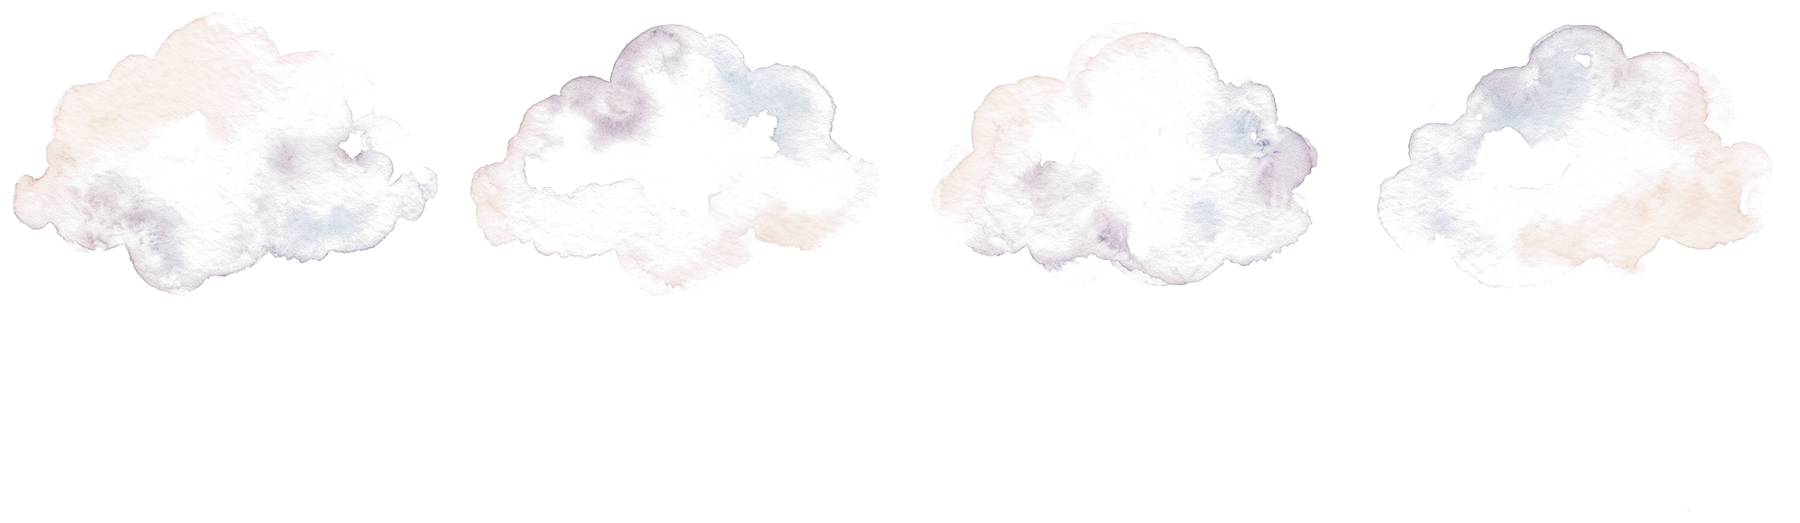
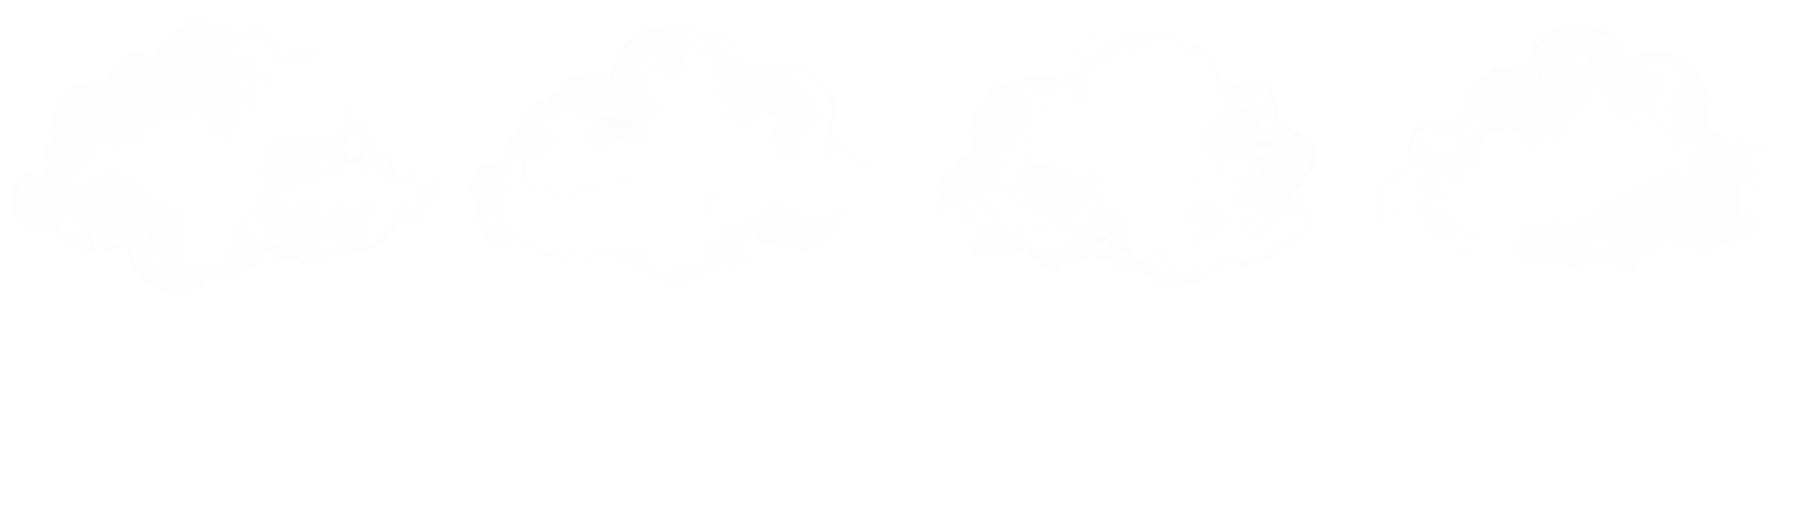
Sweet Pea opening: seal cracks and spins off, band slides away, flaps open at once with a gentle push-in, flowers pop up after the flaps, bigger butterflies, names and flowers fly into the page (no double image), airier clouds

diff --git a/app/i/[slug]/_designs/WeddingSweetPea.tsx b/app/i/[slug]/_designs/WeddingSweetPea.tsx
@@ -14,6 +14,7 @@
 // peach blush, butter cream, sage, plum ink.
 
 import { useCallback, useEffect, useMemo, useRef, useState, type CSSProperties, type ReactNode } from "react";
+import { flushSync } from "react-dom";
 import type { Invite } from "@/lib/types";
 import type { InviteGuest } from "@/lib/guestRules";
 import { parseWallClock } from "@/lib/calendar";
@@ -70,8 +71,73 @@ type GateStage = "closed" | "seal" | "open" | "grow" | "done";
 function FoldGate({ names, dateLine, onDone, onGone }: { names: string; dateLine: string; onDone: () => void; onGone: () => void }) {
   const [stage, setStage] = useState<GateStage>("closed");
   const timers = useRef<number[]>([]);
-  useEffect(() => () => timers.current.forEach(clearTimeout), []);
+  const gateRef = useRef<HTMLDivElement | null>(null);
+  const sprayRatio = useRef(1400 / 784);
+  useEffect(() => {
+    const img = new Image();
+    img.onload = () => (sprayRatio.current = img.naturalWidth / img.naturalHeight);
+    img.src = `${ART}/spray.webp`;
+    const t = timers.current;
+    return () => t.forEach(clearTimeout);
+  }, []);
   const [a, b] = splitNames(names);
+
+  // Hand-over: the card's names, line and flowers fly to the exact spot (and
+  // size) of the page's own names, line and flowers, so the guest sees one
+  // set of names travel into place, never two overlapping. Text clones animate
+  // their font size (stays crisp); the flowers animate their painted rect.
+  function morph() {
+    const gate = gateRef.current;
+    if (!gate) return;
+    const T = "1s cubic-bezier(.45,0,.2,1)";
+    const textPairs: [string, string][] = [
+      [".sp-inside-names", ".sp-hero .sp-names"],
+      [".sp-inside-text .sp-eyebrow", ".sp-hero > .sp-eyebrow"],
+    ];
+    for (const [from, to] of textPairs) {
+      const src = gate.querySelector<HTMLElement>(from);
+      const dst = document.querySelector<HTMLElement>(to);
+      if (!src || !dst) continue;
+      const r1 = src.getBoundingClientRect(), r2 = dst.getBoundingClientRect();
+      const cs1 = getComputedStyle(src), cs2 = getComputedStyle(dst);
+      const k = src.offsetWidth ? r1.width / src.offsetWidth : 1;
+      const fs1 = parseFloat(cs1.fontSize) * k, fs2 = parseFloat(cs2.fontSize);
+      const c = src.cloneNode(true) as HTMLElement;
+      Object.assign(c.style, {
+        position: "fixed", left: `${r1.left + r1.width / 2}px`, top: `${r1.top + r1.height / 2}px`, margin: "0", zIndex: "30",
+        transform: "translate(-50%, -50%)", fontFamily: cs1.fontFamily, fontWeight: cs1.fontWeight, fontSize: `${fs1}px`,
+        lineHeight: String(parseFloat(cs2.lineHeight) / fs2 || 1), letterSpacing: `${(parseFloat(cs1.letterSpacing) || 0) / parseFloat(cs1.fontSize)}em`,
+        color: cs1.color, whiteSpace: "nowrap", pointerEvents: "none", transition: `left ${T}, top ${T}, font-size ${T}, color ${T}`,
+      });
+      c.dataset.morph = "1";
+      gate.appendChild(c);
+      src.style.visibility = "hidden";
+      void c.offsetWidth;
+      Object.assign(c.style, { left: `${r2.left + r2.width / 2}px`, top: `${r2.top + r2.height / 2}px`, fontSize: `${fs2}px`, color: cs2.color });
+    }
+    const pop = gate.querySelector<HTMLElement>(".sp-pop-front");
+    const hero = document.querySelector<HTMLElement>(".sp-hero-spray");
+    if (pop && hero) {
+      const contain = (r: DOMRect) => {
+        const q = sprayRatio.current;
+        const w = r.width / r.height > q ? r.height * q : r.width;
+        const h = w / q;
+        return { left: r.left + (r.width - w) / 2, top: r.top + (r.height - h) / 2, width: w, height: h };
+      };
+      const r1 = contain(pop.getBoundingClientRect()), r2 = contain(hero.getBoundingClientRect());
+      const c = document.createElement("span");
+      Object.assign(c.style, {
+        position: "fixed", left: `${r1.left}px`, top: `${r1.top}px`, width: `${r1.width}px`, height: `${r1.height}px`, zIndex: "29",
+        background: `url(${ART}/spray.webp) center / 100% 100% no-repeat`, pointerEvents: "none",
+        transition: `left ${T}, top ${T}, width ${T}, height ${T}`,
+      });
+      c.dataset.morph = "1";
+      gate.appendChild(c);
+      pop.style.visibility = "hidden";
+      void c.offsetWidth;
+      Object.assign(c.style, { left: `${r2.left}px`, top: `${r2.top}px`, width: `${r2.width}px`, height: `${r2.height}px` });
+    }
+  }
 
   function open() {
     if (stage !== "closed") return;
@@ -81,15 +147,22 @@ function FoldGate({ names, dateLine, onDone, onGone }: { names: string; dateLine
       timers.current.push(window.setTimeout(onGone, 900));
       return;
     }
+    // seal pops (0) -> flaps open + push in (380) -> flowers rise (~1.2s) ->
+    // butterflies (~1.5s) -> names fly into the page (2.75s) -> page (3.8s)
     setStage("seal");
-    timers.current.push(window.setTimeout(() => setStage("open"), 520));
-    timers.current.push(window.setTimeout(() => setStage("grow"), 3300));
-    timers.current.push(window.setTimeout(onDone, 3750));
-    timers.current.push(window.setTimeout(onGone, 4700));
+    timers.current.push(window.setTimeout(() => setStage("open"), 300));
+    timers.current.push(window.setTimeout(() => { morph(); setStage("grow"); }, 2750));
+    // show the page's names and drop the flying copies in the same paint,
+    // so the semi-transparent watercolor is never drawn twice (darker flash)
+    timers.current.push(window.setTimeout(() => {
+      flushSync(onDone);
+      gateRef.current?.querySelectorAll<HTMLElement>("[data-morph]").forEach((el) => el.remove());
+    }, 3780));
+    timers.current.push(window.setTimeout(onGone, 3900));
   }
 
   return (
-    <div className={`sp-gate st-${stage}`} role="dialog" aria-label="Invitation">
+    <div ref={gateRef} className={`sp-gate st-${stage}`} role="dialog" aria-label="Invitation">
       <div className="sp-gate-sky" aria-hidden="true" />
       <div className="sp-gate-clouds" aria-hidden="true">
         <span className="sp-cloud c1" />
@@ -126,9 +199,9 @@ function FoldGate({ names, dateLine, onDone, onGone }: { names: string; dateLine
         <span className="sp-band" aria-hidden="true" />
         <span className="sp-sprig" style={{ backgroundImage: `url(${ART}/spray.webp)` }} aria-hidden="true" />
         <span className="sp-seal" style={{ backgroundImage: `url(${ART}/seal.webp)` }} />
-        <Butterfly className="sp-out sp-out-1" />
-        <Butterfly className="sp-out sp-out-2" />
       </button>
+      <Butterfly className="sp-out sp-out-1" />
+      <Butterfly className="sp-out sp-out-2" />
       <p className="sp-tap">Tap to open</p>
     </div>
   );
@@ -453,7 +526,7 @@ export default function WeddingSweetPea({ invite, embedded = false, guest = null
   }, [opened]);
 
   return (
-    <div className={`sp-root ${opened ? "is-open" : ""} ${embedded ? "is-embedded" : ""}`} ref={rootRef}>
+    <div className={`sp-root ${opened ? "is-open" : ""} ${embedded ? "is-embedded" : "from-gate"}`} ref={rootRef}>
       <style>{CSS}</style>
       <link rel="preconnect" href="https://fonts.gstatic.com" crossOrigin="" />
       <link rel="stylesheet" href="https://fonts.googleapis.com/css2?family=Gilda+Display&family=Jost:wght@300;400;500&display=swap" precedence="default" />
@@ -576,7 +649,7 @@ body:has(.sp-root) { margin: 0; background: #f1ece3; }
 .sp-sky-clouds { position: absolute; inset: -20% 0; will-change: transform; }
 .sp-sky-clouds.far { transform: translate3d(0, calc(var(--sy, 0) * -0.04px), 0); }
 .sp-sky-clouds.near { transform: translate3d(0, calc(var(--sy, 0) * -0.12px), 0); }
-.sp-cloud { position: absolute; display: block; background: url(${ART}/clouds.webp) no-repeat; background-size: 400% 100%; opacity: .5; filter: brightness(1.25) saturate(.7); }
+.sp-cloud { position: absolute; display: block; background: url(${ART}/clouds.webp) no-repeat; background-size: 400% 100%; opacity: .75; }
 .sp-cloud.c1 { width: 62vw; max-width: 380px; aspect-ratio: 2.5/1; top: 18%; left: -14%; background-position: 0 0; animation: sp-drift 46s ease-in-out infinite alternate; }
 .sp-cloud.c2 { width: 54vw; max-width: 340px; aspect-ratio: 2.5/1; top: 46%; right: -12%; background-position: 33.333% 0; animation: sp-drift 38s ease-in-out -9s infinite alternate-reverse; }
 .sp-cloud.c3 { width: 48vw; max-width: 300px; aspect-ratio: 2.5/1; top: 72%; left: 8%; background-position: 66.666% 0; opacity: .6; animation: sp-drift 52s ease-in-out -20s infinite alternate; }
@@ -596,7 +669,7 @@ body:has(.sp-root) { margin: 0; background: #f1ece3; }
 /* ---------- page ---------- */
 .sp-page { position: relative; z-index: 1; padding: 0 22px 40px; max-width: 520px; margin: 0 auto; text-align: center; }
 .sp-hero { position: relative; min-height: 100svh; display: flex; flex-direction: column; align-items: center; justify-content: center; padding: 120px 0 90px; }
-.sp-hero-spray { position: absolute; top: 3svh; left: 50%; width: min(118vw, 600px); aspect-ratio: 16/9; translate: -50% 0; background: center / contain no-repeat; pointer-events: none; }
+.sp-hero-spray { position: absolute; top: 7svh; left: 50%; width: min(110vw, 560px); aspect-ratio: 16/9; translate: -50% 0; background: center / contain no-repeat; pointer-events: none; }
 .sp-names { font: 400 clamp(58px, 18vw, 86px)/.98 var(--title); margin: 4px 0 18px; display: flex; flex-direction: column; align-items: center; }
 .sp-hero-line { font: 300 15px/1.5 var(--body); letter-spacing: .06em; margin: 0 0 22px; color: var(--ink-soft); }
 .sp-hero-date { font: 400 17px/1 var(--body); letter-spacing: .38em; margin: 0; padding: 14px 0 14px .38em; border-top: 1px solid var(--line); border-bottom: 1px solid var(--line); }
@@ -608,6 +681,8 @@ body:has(.sp-root) { margin: 0; background: #f1ece3; }
 .sp-root:not(.is-open) .sp-hero > * { opacity: 0; }
 .is-open .sp-hero > * { animation: sp-hero-in 1.2s cubic-bezier(.2,.7,.2,1) both; }
 .is-open .sp-hero .sp-eyebrow { animation-delay: .05s; } .is-open .sp-names { animation-delay: .15s; }
+.is-open.from-gate .sp-hero > .sp-eyebrow, .is-open.from-gate .sp-names, .is-open.from-gate .sp-hero-spray { animation: none; }
+.is-open.from-gate .sp-hero-line { animation-delay: 0s; } .is-open.from-gate .sp-hero-date { animation-delay: .15s; }
 .is-open .sp-hero-line { animation-delay: .35s; } .is-open .sp-hero-date { animation-delay: .5s; }
 @keyframes sp-hero-in { from { opacity: 0; filter: blur(8px); transform: translateY(10px); } }
 .is-embedded .sp-hero > * { animation: none; }
@@ -708,71 +783,89 @@ body:has(.sp-root) { margin: 0; background: #f1ece3; }
 .sp-follower { position: fixed; left: 0; top: 0; z-index: 5; pointer-events: none; will-change: transform; filter: drop-shadow(0 6px 6px rgba(60,50,40,.18)); }
 
 /* ---------- gate: the folded card ---------- */
-.sp-gate { position: fixed; inset: 0; z-index: 20; display: flex; flex-direction: column; align-items: center; justify-content: center; gap: 26px; transition: opacity 1s ease; }
+.sp-gate { position: fixed; inset: 0; z-index: 20; display: flex; flex-direction: column; align-items: center; justify-content: center; gap: 26px; overflow: hidden; }
 .sp-gate-sky { position: absolute; inset: 0; background: url(${ART}/sky.webp) center / cover no-repeat, linear-gradient(180deg, #ebe8ee 0%, #f4f0e8 50%, #f3ead6 100%); }
 .sp-gate-clouds { position: absolute; inset: 0; }
 .sp-card {
   --w: min(74vw, 330px); position: relative; width: var(--w); aspect-ratio: 3 / 4.25; border: 0; padding: 0; background: none; cursor: pointer;
   perspective: 1600px; transform-style: preserve-3d; -webkit-tap-highlight-color: transparent;
-  transition: transform 1.1s cubic-bezier(.6,0,.2,1), opacity .9s ease .25s;
   animation: sp-float 5s ease-in-out infinite;
 }
 @keyframes sp-float { 0%,100% { translate: 0 0; rotate: -1deg; } 50% { translate: 0 -8px; rotate: .6deg; } }
-.st-open .sp-card, .st-grow .sp-card { animation: none; }
-.st-open .sp-card { transform: scale(.66); transition: transform 1.6s cubic-bezier(.55,.05,.25,1); }
+.st-seal .sp-card, .st-open .sp-card, .st-grow .sp-card { animation: none; }
+/* opening pushes gently towards the guest: the card never shrinks away */
+.st-open .sp-card { transform: scale(1.16); transition: transform 2.2s cubic-bezier(.45,.05,.25,1); }
+.st-grow .sp-card { transform: scale(1.16); opacity: 0; transition: opacity .55s ease .1s; }
 .sp-inside { position: absolute; inset: 0; border-radius: 6px; background: var(--cream) url(${ART}/grain.png); box-shadow: 0 40px 70px -30px rgba(70,60,50,.5), 0 2px 6px rgba(70,60,50,.08), inset 0 0 0 1px var(--line); overflow: hidden; display: flex; align-items: center; justify-content: center; }
 .sp-inside::after { content: ""; position: absolute; inset: 10px; border: 1px solid var(--line); border-radius: 3px; pointer-events: none; }
-.sp-inside-text { position: relative; z-index: 2; display: flex; flex-direction: column; align-items: center; padding-top: 34%; }
+.sp-inside-text { position: relative; z-index: 2; display: flex; flex-direction: column; align-items: center; padding-top: 34%; opacity: 0; transition: opacity .6s ease .45s; }
+.st-open .sp-inside-text, .st-grow .sp-inside-text { opacity: 1; }
+.st-grow .sp-inside-date { opacity: 0; transition: opacity .3s; }
 .sp-inside-text .sp-eyebrow { font-size: 9px; margin-bottom: 10px; }
 .sp-inside-names { font: 400 calc(var(--w) * .15)/1 var(--title); color: var(--ink); display: flex; flex-direction: column; align-items: center; }
 .sp-inside-date { font: 400 11px/1 var(--body); letter-spacing: .32em; margin-top: 14px; color: var(--ink); }
 .sp-pop { position: absolute; left: -12%; right: -12%; top: -2%; height: 46%; background: center / contain no-repeat; transform-origin: 50% 100%; transform: perspective(500px) rotateX(-88deg); opacity: 0; }
 .sp-pop-back { top: -6%; filter: saturate(.85) brightness(1.04); transform: perspective(500px) rotateX(-88deg) scale(.92); }
-.st-open .sp-pop, .st-grow .sp-pop { animation: sp-popup 1.15s cubic-bezier(.25,1.45,.45,1) .55s both; }
-.st-open .sp-pop-back, .st-grow .sp-pop-back { animation-name: sp-popup-back; animation-delay: .75s; }
-@keyframes sp-popup { from { opacity: 0; transform: perspective(500px) rotateX(-88deg); } 30% { opacity: 1; } to { opacity: 1; transform: perspective(500px) rotateX(0); } }
-@keyframes sp-popup-back { from { opacity: 0; transform: perspective(500px) rotateX(-88deg) scale(.92) scaleX(-1); } 30% { opacity: .9; } to { opacity: .9; transform: perspective(500px) rotateX(0) scale(.92) scaleX(-1); } }
-.sp-flap { position: absolute; top: 0; bottom: 0; width: 50%; transform-style: preserve-3d; transition: transform 1.6s cubic-bezier(.55,.05,.25,1); z-index: 3; }
+/* the flowers rise only once the flaps are out of the way, so the pop-up is seen */
+.st-open .sp-pop, .st-grow .sp-pop { animation: sp-popup 1.05s cubic-bezier(.25,1.4,.45,1) .8s both; }
+.st-open .sp-pop-back, .st-grow .sp-pop-back { animation-name: sp-popup-back; animation-delay: .95s; }
+.st-grow .sp-pop-back { opacity: 0 !important; transition: opacity .3s; }
+@keyframes sp-popup { from { opacity: 0; transform: perspective(500px) rotateX(-88deg); } 25% { opacity: 1; } to { opacity: 1; transform: perspective(500px) rotateX(0); } }
+@keyframes sp-popup-back { from { opacity: 0; transform: perspective(500px) rotateX(-88deg) scale(.92) scaleX(-1); } 25% { opacity: .9; } to { opacity: .9; transform: perspective(500px) rotateX(0) scale(.92) scaleX(-1); } }
+/* flaps overlap by a hair so nothing shows through the centre line */
+.sp-flap { position: absolute; top: 0; bottom: 0; width: calc(50% + 1px); transform-style: preserve-3d; transition: transform 1.45s cubic-bezier(.32,.12,.25,1); z-index: 3; }
 .sp-flap-l { left: 0; transform-origin: 0 50%; }
 .sp-flap-r { right: 0; transform-origin: 100% 50%; }
 .sp-flap-face { position: absolute; inset: 0; backface-visibility: hidden; -webkit-backface-visibility: hidden; background: #f8f4ec url(${ART}/grain.png); overflow: hidden; }
 .sp-flap-l .sp-flap-face { border-radius: 6px 0 0 6px; }
 .sp-flap-r .sp-flap-face { border-radius: 0 6px 6px 0; }
-.sp-flap-front { box-shadow: inset 0 0 0 1px var(--line), 0 6px 18px -8px rgba(60,50,40,.25); }
+.sp-flap-front { box-shadow: inset 0 0 0 1px var(--line); }
 .sp-flap-front::before { content: ""; position: absolute; inset: 10px; border: 1px solid var(--line); }
 .sp-flap-l .sp-flap-front::before { border-right: 0; } .sp-flap-r .sp-flap-front::before { border-left: 0; }
-.sp-flap-front::after { content: ""; position: absolute; inset: 0; background: linear-gradient(90deg, rgba(255,255,255,0) 60%, rgba(110,95,80,.10)); opacity: 1; transition: opacity 1.6s; }
-.sp-flap-r .sp-flap-front::after { background: linear-gradient(270deg, rgba(255,255,255,0) 60%, rgba(110,95,80,.10)); }
+.sp-flap-front::after { content: ""; position: absolute; inset: 0; background: linear-gradient(90deg, rgba(255,255,255,0) 55%, rgba(110,95,80,.08)); }
+.sp-flap-r .sp-flap-front::after { background: linear-gradient(270deg, rgba(255,255,255,0) 55%, rgba(110,95,80,.08)); }
 .sp-flap-back { transform: rotateY(180deg); background-color: #f2eee6; }
 .sp-flap-back::before { content: ""; position: absolute; inset: 8% 6%; background: var(--vine) center / contain no-repeat; opacity: .95; }
 .sp-flap-r .sp-flap-back::before { transform: scaleX(-1); }
-.sp-flap-back::after { content: ""; position: absolute; inset: 0; background: linear-gradient(90deg, rgba(110,95,80,.16), rgba(255,255,255,0) 70%); }
+.sp-flap-back::after { content: ""; position: absolute; inset: 0; background: linear-gradient(90deg, rgba(110,95,80,.12), rgba(255,255,255,0) 70%); }
 .sp-flap-letter { position: absolute; top: 30%; font: 400 calc(var(--w) * .2)/1 var(--title); color: var(--ink); translate: 0 -50%; opacity: .88; }
 .sp-flap-l .sp-flap-letter { right: 16%; } .sp-flap-r .sp-flap-letter { left: 16%; }
 .st-open .sp-flap-l, .st-grow .sp-flap-l { transform: rotateY(-164deg); }
 .st-open .sp-flap-r, .st-grow .sp-flap-r { transform: rotateY(164deg); }
-.sp-band { position: absolute; left: -2px; right: -2px; top: 50%; height: 22%; z-index: 5; background: linear-gradient(180deg, rgba(214,205,230,.55), rgba(214,205,230,.42)); backdrop-filter: blur(1.5px); -webkit-backdrop-filter: blur(1.5px); border-top: 1px solid rgba(255,255,255,.7); border-bottom: 1px solid rgba(154,143,179,.35); box-shadow: 0 3px 8px -4px rgba(60,50,40,.25); transition: transform .7s cubic-bezier(.5,0,.3,1), opacity .5s ease; }
-.sp-sprig { position: absolute; left: 50%; top: 61%; width: calc(var(--w) * .62); aspect-ratio: 16/9; translate: -50% -50%; rotate: -14deg; z-index: 5; background: center / contain no-repeat; pointer-events: none; transition: transform .7s cubic-bezier(.5,0,.3,1), opacity .5s ease; }
-.st-seal .sp-band, .st-open .sp-band, .st-grow .sp-band { transform: translateY(40px); opacity: 0; }
-.st-seal .sp-sprig, .st-open .sp-sprig, .st-grow .sp-sprig { transform: translate(30px, 50px) rotate(10deg); opacity: 0; }
-.sp-seal { position: absolute; left: 50%; top: 61%; width: calc(var(--w) * .38); aspect-ratio: 1; translate: -50% -50%; background: center / contain no-repeat; z-index: 6; filter: drop-shadow(0 6px 8px rgba(70,45,90,.25)); transition: transform .5s cubic-bezier(.3,1.5,.5,1), opacity .5s ease; }
+/* the vellum band slides off to the side, the sprig drops away, the seal cracks off and spins up */
+.sp-band { position: absolute; left: -2px; right: -2px; top: 50%; height: 22%; z-index: 5; background: linear-gradient(180deg, rgba(214,205,230,.55), rgba(214,205,230,.42)); backdrop-filter: blur(1.5px); -webkit-backdrop-filter: blur(1.5px); border-top: 1px solid rgba(255,255,255,.7); border-bottom: 1px solid rgba(154,143,179,.35); box-shadow: 0 3px 8px -4px rgba(60,50,40,.25); transition: transform .6s cubic-bezier(.55,0,.6,1) .08s, opacity .25s ease .4s; }
+.sp-sprig { position: absolute; left: 50%; top: 61%; width: calc(var(--w) * .62); aspect-ratio: 16/9; translate: -50% -50%; rotate: -14deg; z-index: 5; background: center / contain no-repeat; pointer-events: none; transition: transform .6s cubic-bezier(.55,0,.7,1), opacity .25s ease .38s; }
+.st-seal .sp-band, .st-open .sp-band, .st-grow .sp-band { transform: translateX(-120%) rotate(-4deg); opacity: 0; }
+.st-seal .sp-sprig, .st-open .sp-sprig, .st-grow .sp-sprig { transform: translate(40px, 240px) rotate(38deg); opacity: 0; }
+.sp-seal { position: absolute; left: 50%; top: 61%; width: calc(var(--w) * .38); aspect-ratio: 1; translate: -50% -50%; background: center / contain no-repeat; z-index: 6; filter: drop-shadow(0 6px 8px rgba(70,45,90,.25)); transition: transform .4s cubic-bezier(.3,1.5,.5,1); }
 .sp-card:hover .sp-seal { transform: scale(1.04); }
-.st-seal .sp-seal { animation: sp-seal-pop .6s cubic-bezier(.3,.9,.4,1) forwards; }
-.st-open .sp-seal, .st-grow .sp-seal { opacity: 0; transform: translateY(-160px) rotate(-40deg) scale(.6); }
-@keyframes sp-seal-pop { 0% { transform: scale(1); } 35% { transform: scale(1.18) rotate(6deg); } 100% { transform: translateY(-160px) rotate(-40deg) scale(.6); opacity: 0; } }
-.sp-out { position: absolute; left: 50%; top: 40%; z-index: 7; opacity: 0; width: 96px; height: 72px; filter: drop-shadow(0 8px 8px rgba(63,58,54,.2)); }
-.st-open .sp-out-1, .st-grow .sp-out-1 { animation: sp-out1 2.6s cubic-bezier(.35,.1,.3,1) .9s both, sp-flap .16s ease-in-out infinite alternate; }
-.st-open .sp-out-2, .st-grow .sp-out-2 { animation: sp-out2 2.8s cubic-bezier(.35,.1,.3,1) 1.15s both, sp-flap .18s ease-in-out infinite alternate; }
-@keyframes sp-flap { from { --open: 1; } to { --open: .2; } }
-@keyframes sp-out1 { 0% { opacity: 0; transform: translate(-50%, 0) scale(.5); } 15% { opacity: 1; } 50% { transform: translate(-190px, -260px) rotate(-14deg) scale(1); } 100% { opacity: 0; transform: translate(-120px, -70vh) rotate(8deg) scale(.9); } }
-@keyframes sp-out2 { 0% { opacity: 0; transform: translate(-50%, 0) scale(.5); } 15% { opacity: 1; } 50% { transform: translate(150px, -200px) rotate(12deg) scale(.85); } 100% { opacity: 0; transform: translate(220px, -66vh) rotate(-10deg) scale(.8); } }
-.sp-tap { position: relative; font: 400 12px/1 var(--body); letter-spacing: .4em; text-transform: uppercase; color: var(--ink); margin: 0; padding-left: .4em; animation: sp-breathe 2.6s ease-in-out infinite; transition: opacity .4s; }
+.st-seal .sp-seal, .st-open .sp-seal, .st-grow .sp-seal { animation: sp-seal-pop .7s cubic-bezier(.3,.6,.4,1) forwards; }
+@keyframes sp-seal-pop {
+  0% { transform: scale(1); filter: drop-shadow(0 6px 8px rgba(70,45,90,.25)); }
+  18% { transform: scale(1.16) rotate(-5deg); filter: drop-shadow(0 18px 18px rgba(70,45,90,.3)); }
+  70% { opacity: 1; }
+  100% { transform: translate(110px, -300px) rotate(220deg) scale(.7); opacity: 0; filter: drop-shadow(0 30px 24px rgba(70,45,90,.15)); }
+}
+/* two butterflies flutter out of the card and stay on screen before rising away */
+.sp-out { position: absolute; left: 50%; top: 46%; z-index: 7; opacity: 0; width: 120px; height: 90px; margin: -45px 0 0 -60px; filter: drop-shadow(0 10px 10px rgba(63,58,54,.22)); }
+.st-open .sp-out-1, .st-grow .sp-out-1 { animation: sp-out1 2.3s cubic-bezier(.4,.1,.4,1) 1.15s both, sp-flap .15s ease-in-out infinite alternate; }
+.st-open .sp-out-2, .st-grow .sp-out-2 { animation: sp-out2 2.2s cubic-bezier(.4,.1,.4,1) 1.35s both, sp-flap .17s ease-in-out infinite alternate; }
+@keyframes sp-flap { from { --open: 1; } to { --open: .15; } }
+@keyframes sp-out1 {
+  0% { opacity: 0; transform: translate(0, 0) scale(.35); } 12% { opacity: 1; transform: translate(-24px, -40px) scale(.75) rotate(-8deg); }
+  38% { transform: translate(-105px, -150px) scale(1) rotate(-14deg); } 58% { transform: translate(-40px, -225px) scale(1) rotate(10deg); }
+  80% { opacity: 1; transform: translate(-100px, -300px) scale(.95) rotate(-8deg); } 100% { opacity: 0; transform: translate(-60px, -470px) scale(.85) rotate(6deg); }
+}
+@keyframes sp-out2 {
+  0% { opacity: 0; transform: translate(0, 0) scale(.35); } 12% { opacity: 1; transform: translate(30px, -30px) scale(.7) rotate(10deg); }
+  38% { transform: translate(105px, -110px) scale(.9) rotate(14deg); } 58% { transform: translate(55px, -200px) scale(.9) rotate(-8deg); }
+  80% { opacity: 1; transform: translate(110px, -270px) scale(.88) rotate(8deg); } 100% { opacity: 0; transform: translate(80px, -450px) scale(.8) rotate(-6deg); }
+}
+.sp-tap { position: relative; font: 400 12px/1 var(--body); letter-spacing: .4em; text-transform: uppercase; color: var(--ink); margin: 0; padding-left: .4em; animation: sp-breathe 2.6s ease-in-out infinite; transition: opacity .3s; }
 @keyframes sp-breathe { 0%,100% { opacity: .45; } 50% { opacity: 1; } }
 .st-seal .sp-tap, .st-open .sp-tap, .st-grow .sp-tap { opacity: 0; animation: none; }
-/* the open card grows into the page */
-.st-grow .sp-card { transform: scale(1.9); opacity: 0; transition: transform 1.25s cubic-bezier(.5,0,.2,1), opacity .7s ease .45s; }
 .st-grow { pointer-events: none; }
-.st-grow .sp-gate-sky, .st-grow .sp-gate-clouds, .st-grow .sp-tap { opacity: 0; transition: opacity .9s ease .35s; }
+.st-grow .sp-gate-sky, .st-grow .sp-gate-clouds { opacity: 0; transition: opacity .9s ease .1s; }
 @media (prefers-reduced-motion: reduce) {
   .sp-card, .sp-tap, .sp-cloud { animation: none !important; }
   .sp-mist { filter: none; transform: none; }
